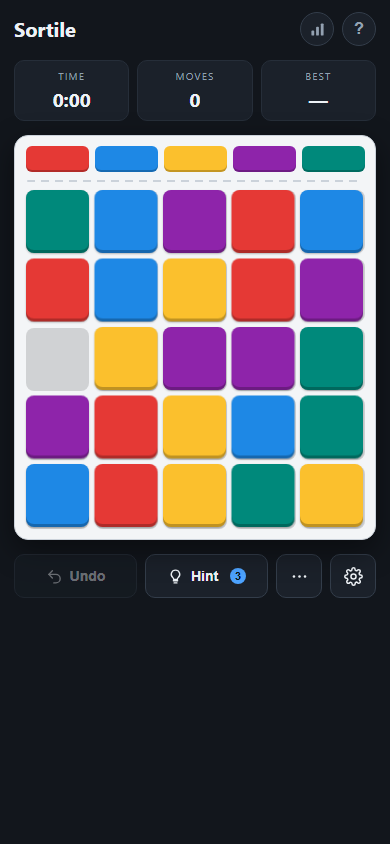
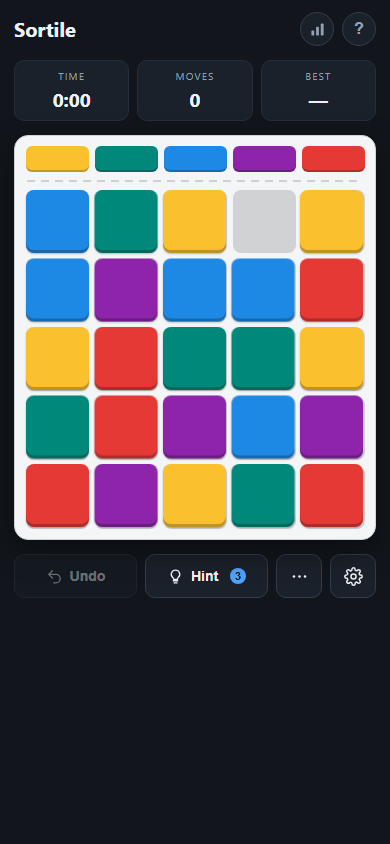
Redraw the Candy and Ocean palettes so they are distinguishable
All four palettes walked the same red-green-blue-purple-yellow hue
sequence and differed only in saturation and lightness, so switching
palette read as one palette with a dimmer switch rather than a real
choice.

Measuring them also turned up a playability bug. The whole game is
telling five colours apart, and Ocean's blue and indigo were only dE
20.5 apart against Classic's 59.2, which made it materially the hardest
palette to play. Nothing caught it because no test looked at the
colours.

Ocean could not be fixed under its own name: five oceanic hues all sit
in one corner of the wheel, so every cool-only set collided on the blues
(Reef 27, Lagoon 38). It is renamed Jewel and rotated to its own part of
the wheel, which takes it to 51.8. Candy is rotated too and goes from
28.3 to 59.6. Classic is untouched, and Accessible is the Okabe-Ito set
so it is left exactly as it was.

Renaming the id would have silently reset everyone who had picked Ocean
back to Classic, the same trap that hit the sand-to-amber theme rename,
so PALETTE_ALIASES forwards it.

Adds tests/palette.test.mjs, which measures CIELAB distance within each
palette and between palettes slot for slot. Both floors were verified to
fail when the old colours are put back.

Also ships the settings work from earlier: palette swatches on one line
with a stacked fallback below 380px, and a general .field-label margin
so section headings stop depending on what precedes them.

Changed region(s): [[0.0615, 0.154, 0.9538, 0.6469]]

diff --git a/game.js b/game.js
@@ -16,9 +16,14 @@
   // never changes what a shape means.
   const SYMBOLS = ['\u25CF', '\u25B2', '\u25A0', '\u25C6', '\u2605'];
 
-  // Every palette needs five colours that stay distinguishable at tile size.
-  // "Accessible" is the Okabe-Ito set, chosen so the three common forms of
-  // colour blindness still separate all five.
+  // Every palette needs five colours that stay distinguishable at tile size, and
+  // the palettes need to be distinguishable from *each other* or switching just
+  // looks like a saturation slider. Both are enforced by tests/palette.test.mjs,
+  // which measures CIELAB distance -- the original Ocean set failed the first
+  // rule (its blue and indigo were dE 20 apart) because "ocean" forces five
+  // cool hues into a corner of the wheel. "Accessible" is the Okabe-Ito set,
+  // chosen so the three common forms of colour blindness still separate all
+  // five, and it is exempt from the within-palette floor for that reason.
   const PALETTES = {
     classic: {
       name: 'Classic',
@@ -43,24 +48,29 @@
     candy: {
       name: 'Candy',
       colours: [
-        { name: 'Cherry',     hex: '#ff5d73' },
-        { name: 'Mint',       hex: '#3ddc97' },
-        { name: 'Cornflower', hex: '#5b8cff' },
-        { name: 'Grape',      hex: '#b47aea' },
-        { name: 'Lemon',      hex: '#ffd93d' }
+        { name: 'Bubblegum', hex: '#ff8387' },
+        { name: 'Lemon',     hex: '#ffd24a' },
+        { name: 'Mint',      hex: '#00ca98' },
+        { name: 'Aqua',      hex: '#00c4ff' },
+        { name: 'Lilac',     hex: '#d099ff' }
       ]
     },
-    ocean: {
-      name: 'Ocean',
+    jewel: {
+      name: 'Jewel',
       colours: [
-        { name: 'Coral',   hex: '#ef6f6c' },
-        { name: 'Seafoam', hex: '#1eb896' },
-        { name: 'Deep',    hex: '#2b6cb0' },
-        { name: 'Ink',     hex: '#5a5fb8' },
-        { name: 'Shell',   hex: '#f2c14e' }
+        { name: 'Bronze',   hex: '#bf6c2b' },
+        { name: 'Moss',     hex: '#529034' },
+        { name: 'Teal',     hex: '#0098a7' },
+        { name: 'Sapphire', hex: '#1483e2' },
+        { name: 'Rose',     hex: '#cf5597' }
       ]
     }
   };
+
+  // Palettes renamed after release, same forwarding rule as APPEARANCE_ALIASES:
+  // loadPrefs validates against PALETTES, so a saved id that no longer exists
+  // would silently drop the player back to classic.
+  const PALETTE_ALIASES = { ocean: 'jewel' };
 
   const APPEARANCES = {
     dark:     'Dark',
@@ -340,7 +350,8 @@
     el.sound.checked = store.sound !== false;
     el.haptics.checked = store.haptics !== false;
     if (store.rows && [4, 5, 6].includes(store.rows)) state.rows = store.rows;
-    if (store.palette && PALETTES[store.palette]) state.palette = store.palette;
+    const savedPalette = PALETTE_ALIASES[store.palette] || store.palette;
+    if (savedPalette && PALETTES[savedPalette]) state.palette = savedPalette;
     const saved = APPEARANCE_ALIASES[store.appearance] || store.appearance;
     if (saved && APPEARANCES[saved]) state.appearance = saved;
     applyTheme();
@@ -1522,6 +1533,7 @@
       loadStats, saveStats, bumpStats, renderStats, statsRows, bestRows,
       formatLong, formatTime, totalStars,
       setPalette, setAppearance, palette, colourHex, PALETTES, APPEARANCES,
+      PALETTE_ALIASES, APPEARANCE_ALIASES,
       loadStore, saveStore, getBest, recordBest, loadPrefs, savePrefs,
       seedFrom, mulberry32, shuffled, neighbours, buildSolved, scramble,
       renderBoard, renderGuide, layout,

diff --git a/styles.css b/styles.css
@@ -726,8 +726,11 @@ body {
 
 /* ---------- settings sheet ---------- */
 
+/* Every heading spaces itself off whatever came before it. This used to be a
+   list of previous-sibling types (.seg, .toggles), so a heading that followed
+   anything else - a swatch row, say - silently got no gap at all. */
 .field-label {
-  margin: 0 0 7px;
+  margin: 18px 0 7px;
   font-size: 12px;
   font-weight: 700;
   letter-spacing: 0.06em;
@@ -735,7 +738,8 @@ body {
   color: var(--text-dim);
 }
 
-.seg + .field-label, .toggles + .field-label { margin-top: 18px; }
+.field-label:first-child,
+h2 + .field-label { margin-top: 0; }
 
 .field-note {
   margin: 8px 0 0;
@@ -745,7 +749,6 @@ body {
 }
 
 #settings .toggles { margin-bottom: 20px; }
-#settings .seg-diff + .field-note + .field-label { margin-top: 18px; }
 
 /* ---------- level picker ---------- */
 
@@ -825,10 +828,10 @@ body {
 
 .swatch {
   display: flex;
-  flex-direction: column;
-  align-items: flex-start;
-  gap: 6px;
-  padding: 9px 10px;
+  flex-direction: row;
+  align-items: center;
+  gap: 8px;
+  padding: 8px 10px;
   border-radius: 11px;
   border: 1px solid var(--line-strong);
   background: var(--bg-soft);
@@ -843,28 +846,35 @@ body {
   box-shadow: inset 0 0 0 1px var(--accent);
 }
 
+/* Five 12px chips plus the longest palette name do not fit on one line at any
+   common phone width, so the chips overlap like a stack of cards - 44px instead
+   of 68px - and each carries a ring in the card colour to stay separable. */
 .swatch-chips {
   display: flex;
-  gap: 3px;
+  flex: none;
+  gap: 0;
 }
 
 .swatch-chips span {
-  width: 15px;
-  height: 15px;
-  border-radius: 4px;
+  width: 12px;
+  height: 12px;
+  border-radius: 3px;
+  box-shadow: 0 0 0 1.5px var(--bg-soft);
 }
+
+.swatch-chips span + span { margin-left: -4px; }
 
 .swatch-name {
   font-size: 12px;
   font-weight: 600;
+  /* Wrapping is ugly but readable; an ellipsis on "Accessible" is neither. */
+  min-width: 0;
 }
 
 /* Each theme swatch re-scopes the theme variables onto itself, so the row is
    its own preview - background, text and accent all come from the theme it is
    offering while the modal around it stays in the current one. */
 .swatch-theme {
-  flex-direction: row;
-  align-items: center;
   gap: 8px;
   padding: 8px 10px;
   background: var(--bg);
@@ -915,6 +925,29 @@ body {
   font-size: 16px;
   font-weight: 650;
   font-variant-numeric: tabular-nums;
+}
+
+/* The inline palette row needs about 107px inside each card for the chips plus
+   the longest name. Two columns only provide that from roughly 380px up, and
+   below it the name is a single unbreakable word that would spill outside the
+   card, so narrow phones keep the original stacked card instead. Theme swatches
+   are unaffected - one dot and a short name fit at every width. */
+@media (max-width: 379px) {
+  #palette-row .swatch {
+    flex-direction: column;
+    align-items: flex-start;
+    gap: 6px;
+  }
+
+  #palette-row .swatch-chips { gap: 3px; }
+
+  #palette-row .swatch-chips span {
+    width: 15px;
+    height: 15px;
+    border-radius: 4px;
+    box-shadow: none;
+    margin-left: 0;
+  }
 }
 
 /* Short viewports - a phone or tablet in landscape, or a small desktop window -

diff --git a/sw.js b/sw.js
@@ -1,4 +1,4 @@
-const CACHE = 'bcp-v20';
+const CACHE = 'bcp-v21';
 
 const ASSETS = [
   './',

diff --git a/AGENTS.md b/AGENTS.md
@@ -155,6 +155,16 @@ passed on every isolated re-run. If it fails alone, believe it. If it fails only
 - **The landscape breakpoint is `min-width: 520px`, not 600px.** A 568×320 landscape
   iPhone SE sits between the two; at 600px it fell back to the stacked layout and
   overflowed the viewport by 67px at six rows.
+- **A single unbreakable word does not wrap -- it spills clean outside its flex item.**
+  This is why the one-line settings swatches have a `max-width: 379px` fallback that puts
+  the palette card back to stacked. The width budget was measured, not guessed: at 360px
+  a swatch cell gives 107px of inner room, five 12px chips overlapped at -4px cost 44px,
+  and "Accessible" costs 63px, so it is exactly borderline at 360 and overflows at 320.
+  iPhone SE 320x568 is in the supported matrix, so that fallback is load-bearing.
+  Ellipsis was rejected deliberately -- the label exists to be read.
+- **Sibling-specific spacing rules rot.** `.seg + .field-label` silently gave zero top
+  margin to every heading that happened to follow a new section type. Prefer a general
+  `.field-label` margin plus `:first-child` / `h2 +` exceptions.
 
 ## Theme traps
 
@@ -200,6 +210,29 @@ passed on every isolated re-run. If it fails alone, believe it. If it fails only
   `tests/layout.test.mjs` (real Chromium). It asserts every appearance applies, has a
   unique background, and clears 4.5:1 for both body text and text-on-accent. A typo'd
   selector shows up as a duplicate background.
+
+## Palette traps
+
+- **Palettes are separated by hue rotation, not saturation.** All four originally walked
+  the same red-green-blue-purple-yellow wheel and differed only in saturation and
+  lightness, so switching read as one palette with a slider. Each now sits at its own
+  rotation. `tests/palette.test.mjs` measures CIELAB distance between palettes slot for
+  slot and fails below dE 30.
+- **A palette whose colours sit close together is a difficulty bug, not a style choice.**
+  The whole game is telling five colours apart. The original `Ocean` shipped with a blue
+  and an indigo dE 20.5 apart against Classic's 59.2, which made it materially harder to
+  play, and nothing caught it because no test looked at the colours. The same file now
+  enforces a within-palette floor of dE 45.
+- **"Ocean" is why that happened, and the lesson generalises**: a palette named after
+  something monochrome forces five hues into one corner of the wheel and they collide.
+  It was renamed `Jewel` so the colours could spread out. Check a palette concept admits
+  five well-separated hues *before* picking the name.
+- **`Accessible` is the Okabe-Ito set and must not be retuned.** It buys colour-blind
+  safety at the cost of raw separation (dE 33 within, 28 against Classic), so it has its
+  own lower floors in the tests. Everything else gets the higher ones.
+- **Renaming a palette id breaks saved prefs** exactly like renaming a theme id does --
+  `loadPrefs` validates against `PALETTES` and silently drops the player back to
+  `classic`. Add a `PALETTE_ALIASES` entry, same as `APPEARANCE_ALIASES`.
 
 ## SVG icon traps
 

diff --git a/README.md b/README.md
@@ -81,13 +81,17 @@ than on every slide, so playing stays cheap.
 
 The settings sheet carries two appearance controls:
 
-- **Colours** — four palettes. `Classic` is the original board, `Accessible` uses
-  the Okabe-Ito set chosen for maximum separation under the common forms of
-  colour blindness, plus `Candy` and `Ocean`. Switching repaints the blocks in
-  place, so your board and timer survive the change.
-- **Appearance** — `Dark`, `Midnight` or `Slate` re-tints the surfaces around the
-  board. The board frame itself stays light in every theme because the block
-  colours are tuned against it.
+- **Colours** — four palettes, each on a different part of the colour wheel so
+  switching changes the board rather than just its saturation. `Classic` is the
+  original board, `Accessible` uses the Okabe-Ito set chosen for maximum
+  separation under the common forms of colour blindness, plus the bright `Candy`
+  and the deeper `Jewel`. Switching repaints the blocks in place, so your board
+  and timer survive the change. `tests/palette.test.mjs` holds every palette to a
+  measured minimum separation, both within itself and against the others.
+- **Appearance** — eight themes, from `Dark` and `Midnight` through `Slate`,
+  `Forest`, `Plum` and `Amber` to the light `Light` and `Paper`, re-tinting the
+  surfaces around the board. The board frame itself stays light in every theme
+  because the block colours are tuned against it.
 
 Symbols are keyed to the colour's *slot*, not the palette, so a shape always
 means the same column no matter which palette you pick. Both choices persist.
@@ -111,7 +115,7 @@ out of the way.
 | Lifetime stats | **📊** in the topbar |
 | Mode | ⚙ — Free play (endless random boards), Daily (one shared puzzle a day), or Levels (24-puzzle campaign) |
 | Difficulty | ⚙ — Easy (4 rows) / Normal (5) / Hard (6) — free play only |
-| Colours | ⚙ — Classic / Accessible / Candy / Ocean |
+| Colours | ⚙ — Classic / Accessible / Candy / Jewel |
 | Appearance | ⚙ — Dark / Midnight / Slate |
 | Colour hints | ⚙ toggle — dims every block that is in the wrong column |
 | Symbols | ⚙ toggle — adds a shape to each colour for colourblind play |
